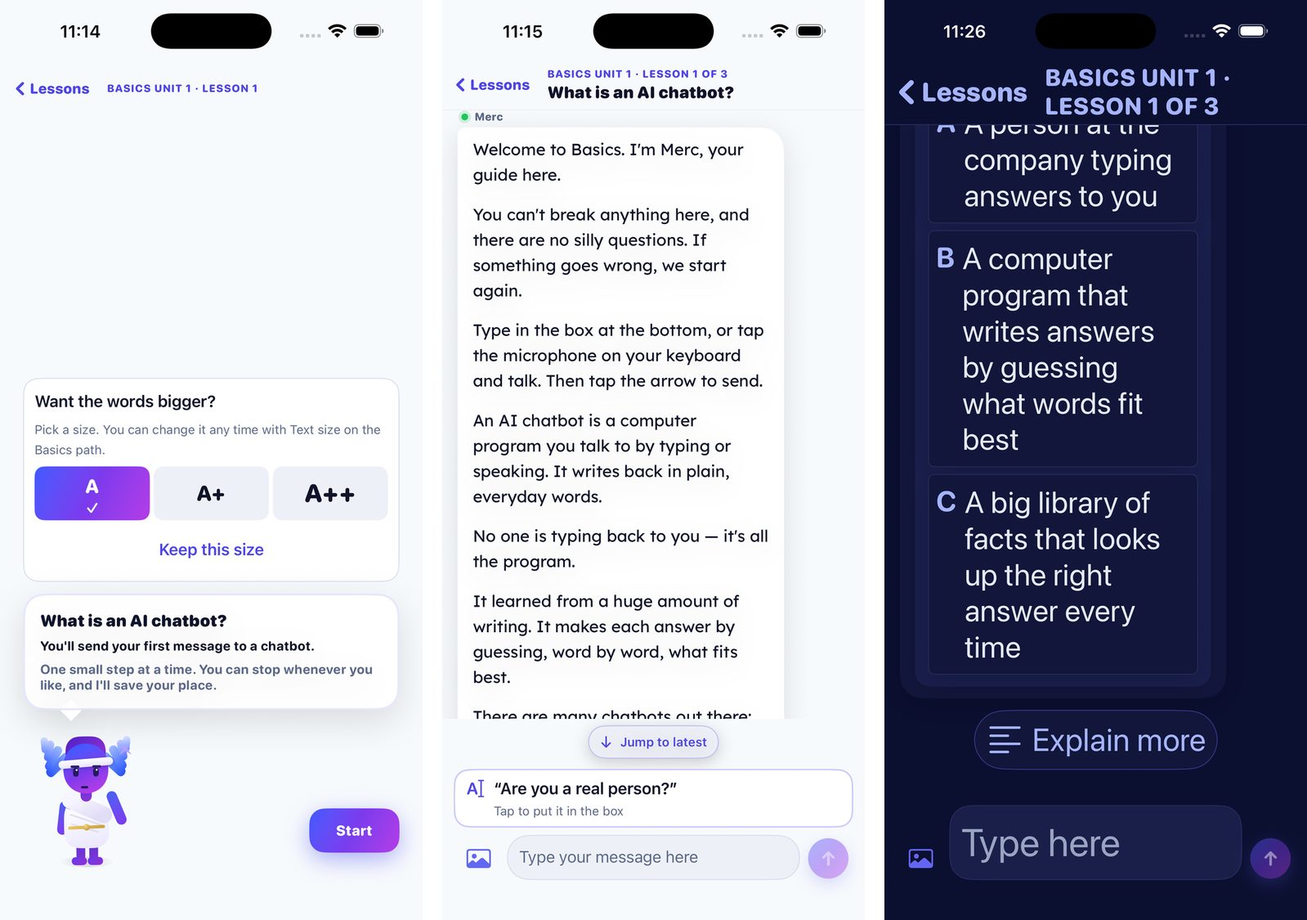
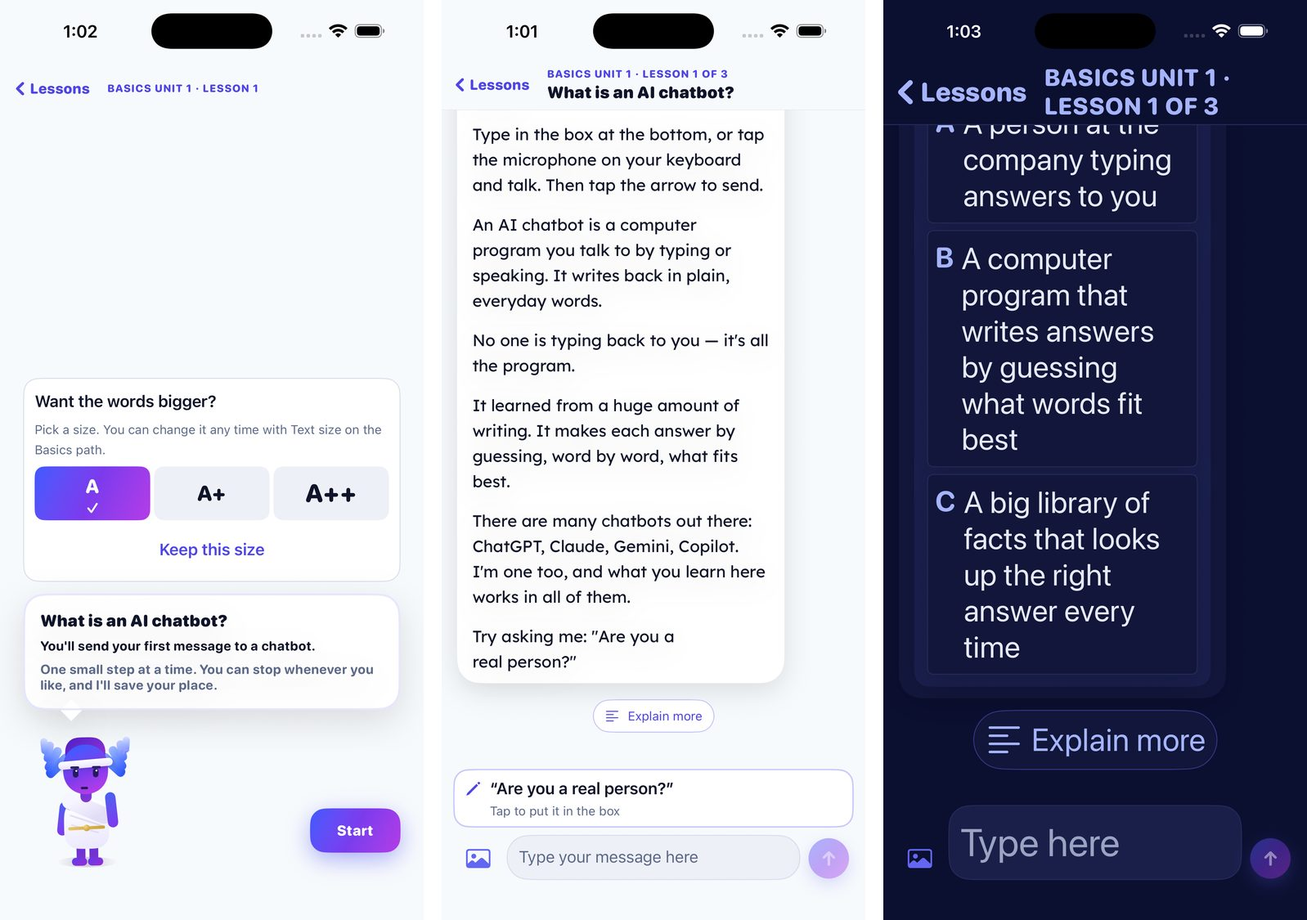
Docs: Basics review fixes, verification, retaken key shots, PR description

diff --git a/docs/basics/CLIENTS.md b/docs/basics/CLIENTS.md
@@ -4,7 +4,7 @@ Branch `feat/basics-clients`, on top of `feat/mac-night-studio` (PR #48: the iPh
 
 The founder asked for "a separate 'easy' curriculum that can just teach people the basics of how to use AI … (think of a grandma wanting to learn how to use ChatGPT)." The server half is `feat/basics-server` (`docs/basics/SERVER.md` there). This branch is the client half: the Basics course in the iPhone app and the Mac app, beside the existing course, which the apps now call **Deep dive** where the two sit side by side.
 
-**Ship order: the server first.** A server without `feat/basics-server` (production today) answers a `[BASICS: …]` opener as free chat, and its progress route refuses `b` ids. The apps cope with the second (see Progress), but a Basics lesson only teaches on a server that has the Basics guide. The server branch's A/B gate has not run yet. The Anthropic credit balance ran out three minutes into it; see SERVER.md for the commands.
+**Ship order: the server first.** A server without `feat/basics-server` (production today) answers a `[BASICS: …]` opener as free chat, and its progress route refuses `b` ids. The apps cope with the second (see Progress), but a Basics lesson only teaches on a server that has the Basics guide. On the server branch every gated Basics row passes a live 3-run gate in both flag states, and every non-Basics request is byte-identical to its base (SERVER.md, "Gate").
 
 ## Defaults chosen (the founder can change any of these)
 
@@ -21,12 +21,12 @@ The founder asked for "a separate 'easy' curriculum that can just teach people t
 
 | Where | What |
 |---|---|
-| Onboarding, "Your path" | Two pinned, full-width, equal buttons, "I'm new to AI: start with the Basics" and "Take the Deep dive"; above them a line on what each course is, the reminder switches (off unless turned on) and "Just chat instead". A button remembers the choice and opens that course's first lesson. The first build had the two courses as tappable cards in the scrolling part; at AX3 and AX5 the Deep-dive card was below the fold and only "Just chat instead" was pinned, which broke AUD-12 (`testFirstRunGateCompletesAtLargestTextSize` caught it), so the choices became the step's pinned CTA. |
+| Onboarding, "Your path" | Two pinned, full-width, equal buttons, "I'm new to AI: start with the Basics" and "Take the Deep dive"; above them a line on what each course is, one plain reminder switch, "Remind me to practice" (twice a week; off unless turned on; no streak switch here), and "Just chat instead". A button remembers the choice and opens that course's first lesson. The first build had the two courses as tappable cards in the scrolling part; at AX3 and AX5 the Deep-dive card was below the fold and only "Just chat instead" was pinned, which broke AUD-12 (`testFirstRunGateCompletesAtLargestTextSize` caught it), so the choices became the step's pinned CTA. |
 | Path (Curriculum tab) | A two-segment switch, "Basics \| Deep dive", across the top (44 pt, labelled, remembered). Basics' path has no unit checks, a plain top bar with only Home (no streak bar), a header that says lessons finished in words, and Text size. Its path-side Merc says calmer lines ("Take your time."). |
-| Home | The chosen course's next lesson: "Start the Basics", then "Continue Basics: What chatbots are good at". For Basics no streak greeting and no week ring; "You've finished 1 Basics lesson." instead. |
+| Home | The chosen course's next lesson: "Start the Basics", then "Continue Basics: What chatbots are good at". For Basics no streak greeting and no week ring; "You've finished 1 Basics lesson." instead. The second button is "All Basics lessons" (the path), not "Chat with Merc": the free chat is the Socratic tutor, which asks questions back. The Lessons tab is called "Lessons" (not "Curriculum") for a Basics learner. |
 | Text size | The first Basics screen offers "Want the words bigger?" with A / A+ / A++, each drawn at the size it gives. It is a floor: the learner's own larger system size always wins. After that, Text size on the Basics header opens the same choice. Basics lessons and the Basics path use it; the Deep dive is untouched. |
 | A Basics lesson | The existing lesson screen with: an intro that says the objective in the learner's words and "One small step at a time. You can stop whenever you like, and I'll save your place."; a labelled "‹ Lessons" back button at the top left; "Type your message here"; the reply's practice line (`Try asking me: "…"`) as a chip that fills the box without sending; Copy on Merc's replies (press and hold), before Report. |
-| After a Basics lesson | "Lesson complete", then **Try this today** (the curriculum's line, with Copy when it quotes a message, for example "What could go wrong?"), then "Next: \<lesson\>" and "That's enough for today", and "Your place is saved." No share card, no "Nailed it!". After a unit's last lesson it carries on to the next unit (there is no check). |
+| After a Basics lesson | "Lesson complete", then **Try this today** (the curriculum's line, with Copy when it quotes a message, for example "What could go wrong?"), then "Next: \<lesson\>" and "That's enough for today", and "Your place is saved." No share card, no "Nailed it!". After a unit's last lesson it carries on to the next unit (there is no check). When it doesn't all fit (the larger text sizes), the two choices and "Your place is saved." are pinned to the bottom of the sheet and only the headline and Try this today scroll; at accessibility sizes Merc stays off the sheet so he never covers text. |
 
 ### Mac
 
@@ -35,15 +35,15 @@ The founder asked for "a separate 'easy' curriculum that can just teach people t
 | Sidebar | Two folding sections, **Basics** and **Deep dive**, each listing its units with lessons done; the learner's own course first. Basics' units have no mastery seal. |
 | A Basics unit page | Night Studio's unit page, without the check: "Basics · Unit 01 · In progress", "1 of 3 lessons done", the thread ending at the last lesson, and the next Basics unit. |
 | The course follows what opens | Opening a Basics unit or lesson makes Basics the course Today and View ▸ Learning Path (⌘2) lead into; a Deep-dive one switches back. Today and the chats leave it alone. |
-| Today | For Basics: "Basics · Up next · Lesson 1.1", "All Basics lessons", no streak line and no week card (Think it through takes the row). |
-| A Basics lesson | The same lesson additions as the iPhone (plain intro, practice chip, "Type your message here"). The complete card shows Try this today, "That's enough for today" and "Start Lesson 1.2", with no week ring and no share. |
+| Today | For Basics: "Basics · Up next · Lesson 1.1", "All Basics lessons", no streak line, no week card and no Think it through (it opens the Socratic free chat). |
+| A Basics lesson | The same lesson additions as the iPhone (plain intro, practice chip, "Type your message here"). The check card's heading is "Pick one" (the Deep dive's is "Your turn first"). The complete card shows Try this today, "That's enough for today" and "Start Lesson 1.2", with no week ring and no share; its key ideas leave out any that point back into the chat ("…just like this one"). |
 
 ## The server contract, as the apps send it
 
 - **Opener.** Each Basics starter begins at index 0 with `[BASICS: Unit N, Lesson M]`, then the curriculum's starter text, then the completion contract the Deep dive appends. The alias in the curriculum file (`[CURRICULUM: Basics …]`) is never sent. `docs/basics/basics.json` is the curriculum file with its tags rewritten to the canonical form, and a test holds the Swift data (`BasicsCurriculum.swift`) to it word for word.
 - **Follow-up turns.** `[opener, …thread]`, with the last user turn re-tagged by the existing legacy-server bridge. Fixed here: the bridge checked only for `[CURRICULUM`, so on a Basics lesson's first request it would have tagged the opener twice, and that request's opener would have differed from every later one's (a history-cache miss). `ChatViewModel.carriesLessonTag` now knows both tags; Deep-dive bytes are unchanged.
 - **Ids.** Lessons `b1_l1` … `b5_l4`; units `basics_1` … `basics_5`. `CurriculumTrack.of(id:)` tells the two courses apart by shape.
-- **Progress.** One store, one sync, one list. A push sends `b` and `u` ids together under `MercuriusCurriculum.version` (1), never a separate number. A pull merges both; every count, frontier and "next" is per course (`totalCompleted(in:)`, `frontier(in:)`), and the weekly plan still counts only the Deep dive. If a server refuses the push with a 400 (what one from before Basics does for a `b` id), the sync retries once with the Deep dive's ids alone, so the Deep dive keeps syncing.
+- **Progress.** One store, one sync, one list. A push sends `b` and `u` ids together under `MercuriusCurriculum.version` (1), never a separate number. A pull merges both; every count, frontier and "next" is per course (`totalCompleted(in:)`, `frontier(in:)`), and so is the weekly plan (`WeeklyPlan.compute(progress:track:)`): the weekly nudges read the course the learner follows, so a Basics learner's lessons count toward the week's goal and its wording. If a server refuses the push with a 400 (what one from before Basics does for a `b` id), the sync retries once with the Deep dive's ids alone, so the Deep dive keeps syncing. The refusal is remembered for that session id until the next launch, or until a pull shows a `b` id: later pushes send the Deep dive's ids alone, and a snapshot that went up that way counts as synced, so an unchanged one is never sent again (no 400 on every launch).
 - **Capabilities.** Every chat request now declares the device beside `blocks_v1`: `platform_ios` or `platform_mac`. Only the Basics guide reads it (b1_l1's "tap the microphone on your keyboard" becomes "type … then click the arrow" on a Mac). Production's schema accepts any well-formed token, and nothing else on the server reads it.
 - **Completion.** Unchanged: `lessonComplete: true` (or the inline marker) completes the lesson.
 
@@ -68,9 +68,45 @@ The founder asked for "a separate 'easy' curriculum that can just teach people t
 - `-SeedCompleted b1_l1,b1_l2` (with `-UITests`, whose progress suite is emptied at launch and never synced) counts lessons as done.
 - `ios/scripts/mac-snapshots.sh` has `basics-today`, `basics-path`, `basics-intro`, `basics-lesson`, `basics-lesson-check` and `basics-lesson-complete`.
 
+## Review fixes (2026-10-22)
+
+A UX review (a 72-year-old beginner's live lessons on the server branch, plus all 80 iPhone and 28 Mac shots) and a code review found these on the client side. Each is fixed here, with a test where one can hold it.
+
+| Finding | Fix |
+|---|---|
+| Basics learners were steered into the Socratic free chat: Mac Today's "Think it through · Socratic" card, and Home's "Chat with Merc". | Mac Today on Basics shows no Think it through (`MacTodayView.showsCards`). Home's second button on Basics is "All Basics lessons" (the path). No Basics screen names a mode; a test holds the Basics words free of "Socratic" and "streak". |
+| At AX3 the end-of-lesson choices were below the fold, and Merc covered text. | When the Basics sheet doesn't fit, "Next", "That's enough for today" and "Your place is saved." are pinned to its bottom, never squeezed, and only the headline and Try this today scroll (`ViewThatFits`). At accessibility sizes Merc stays off the Basics sheet. A sheet shorter than its cap now sits on the bottom edge (it used to float mid-screen once it stopped filling the cap). The Deep dive's sheet is unchanged. |
+| "Your path" offered "Daily streak reminder" and "Weekly nudges" next to the Basics choice. | One plain switch, "Remind me to practice" ("Twice a week: Sunday at 6 PM and Wednesday at 7 PM."), and no streak switch (`RemindersSection(plain:)`). The daily streak reminder stays in the Progress hub. |
+| The weekly plan counted only Deep-dive lessons, so a Basics learner always read as 0 this week. | `WeeklyPlan.compute(progress:track:)` counts the chosen course; Home and the reminder planner pass it. |
+| The pre-Basics server fallback sent two PUTs (one refused) on every pull and push. | The refusal is remembered per session id until the next launch or a pull that shows a `b` id; Deep-dive-only pushes then, and an unchanged snapshot is not sent again. |
+| `readingSizeFloor` switched between two view branches, resetting state on a size pick. | One `dynamicTypeSize(range)` modifier for every size; a test fails if the type ever becomes `_ConditionalContent`. |
+| The practice chip's `text.cursor` icon read as "AI" before the quote. | A pencil. |
+| The Mac check card said "YOUR TURN FIRST". | "Pick one" on Basics (`NightReplyCopy.checkOpenBasics`). The "Tap" in Merc's line before the check is the server's; the server branch now says "Click" for the Mac and the web. |
+| The completion card's key ideas included "…just like this one". | Basics leaves out a key idea that points back into the chat (`NightKeyIdeas.pointsBack`). The server branch also tells Merc that [KEY] must stand on its own, and removes "just". |
+| The path's title and tab said "Curriculum". | "Lessons" for a Basics learner; the Deep dive keeps "Curriculum". |
+| The snapshot tests never drew the tracked path the app shows. | `testCurriculumTrackedDeepDive` and `testCurriculumTrackedBasics` added, with **no reference images**: recording is the founder's job. Until recorded, these two fail with "no reference" when the snapshot class runs (CI skips it). |
+
+Not changed: the tab bar at AX3 (iOS's own glass bar; see Not done).
+
+### Verification of the review fixes
+
+All on this branch's final code, 2026-10-22.
+
+| Check | Result |
+|---|---|
+| `swift test --parallel` (`ios/Packages`, ArchitectureTests included) | 1,242 tests in 185 suites passed: the first build's 1,233 plus 9 (weekly plan per course, the remembered refusal (2), the reading-size identity and floor (2), the plain reminder words, Mac Today on Basics, standalone key ideas, the Lessons title). |
+| CI lint, `ios/scripts/ci-compat-lint.py` | 0 findings. |
+| iOS build for testing, Lab B, derived data `/private/tmp/merc-basics-ios-dd`, after `xcodegen generate` | Succeeded (the new snapshot tests compile). |
+| iOS tests, CI's flags (`-skip-testing` ViewSnapshotTests, PerformanceTests, AppStoreScreenshots; retries on; recording forced off) | MercuriusTests 3 of 3 and MercuriusUITests 26 of 26 passed, 29 test cases with no failure and no retry, including `testFirstRunCanStartTheBasics` and the AUD-12 `testFirstRunGateCompletesAtLargestTextSize`. |
+| Mac Debug build, `/private/tmp/merc-basics-mac-dd` | Succeeded. |
+| Mac shots, `mac-copy-snapshots.sh` (copy `macns31`, ad hoc, never activated), light and dark | basics-today, basics-lesson, basics-lesson-check, basics-lesson-complete, gate-path: all ok. The script's only complaint was "a Mercurius running before is gone": those were the Lab B simulator's app processes this session relaunched for the iPhone shots. The founder's Mercurius (PID 83916) ran before and after. |
+| iPhone shots, Lab B, by DEBUG launch arguments | Your path (Large light, AX3 dark), Home on Basics (Large light and dark), the Basics path, the intro, the practice chip, the check (AX3 dark), and the completion at Large light, AX3 light and AX3 dark. Kept in `.claude/worktrees/basics-shared/shots/review-fixes-2026-10-22/`. |
+
+The key shots 01–04 and 06 were retaken on this code; 07 is new.
+
 ## Verification
 
-All on the final code of this branch, 2026-10-21.
+All on the code of this branch as first built, 2026-10-21.
 
 | Check | Result |
 |---|---|
@@ -101,12 +137,13 @@ At AX3 the text-size offer is absent. That is by design: the system size is alre
 
 | File | What |
 |---|---|
-| `01-iphone-track-choice.jpg` | "Your path": Large light, AX3 dark |
-| `02-iphone-basics-path-home.jpg` | The Basics path (Large light) and Home (Large dark) |
-| `03-iphone-basics-lesson.jpg` | The intro with "Want the words bigger?", the first reply with the practice chip, the check at AX3 dark |
-| `04-iphone-basics-complete.jpg` | The completion (Large light) and Try this today with Copy (AX3 dark) |
+| `01-iphone-track-choice.jpg` | "Your path" with the one plain reminder switch: Large light, AX3 dark (2026-10-22) |
+| `02-iphone-basics-path-home.jpg` | The Basics path, titled "Lessons" (Large light), and Home with "All Basics lessons" (Large dark) (2026-10-22) |
+| `03-iphone-basics-lesson.jpg` | The intro with "Want the words bigger?", the first reply with the pencil practice chip, the check at AX3 dark (2026-10-22) |
+| `04-iphone-basics-complete.jpg` | The completion: Large light (sized to fit, on the bottom edge) and AX3 dark (choices pinned, Merc off the sheet) (2026-10-22) |
 | `05-mac-basics-sidebar-path.jpg` | The Mac sidebar's Basics section and a Basics unit page |
-| `06-mac-basics-lesson.jpg` | A Basics lesson on the Mac, with the practice chip |
+| `06-mac-basics-lesson.jpg` | A Basics lesson on the Mac, with the pencil practice chip (2026-10-22) |
+| `07-mac-basics-today-check.jpg` | Mac Today on Basics with no Think it through, and the check card's "Pick one" (2026-10-22) |
 
 ## Not done, and why
 
@@ -115,12 +152,13 @@ At AX3 the text-size offer is absent. That is by design: the system size is alre
 - **"Say that more simply" and "I'm stuck" buttons** (BEGINNER_GUIDE §2.3) need a new server nudge; "Explain more" means "go deeper".
 - **The printable completion and "Who to call" cards** (curriculum §6) are the certificate work's.
 - **The web widgets** don't offer Basics.
-- **Reminders** keep their existing copy (opt-in, as before). A Basics learner who turns them on gets a lesson link into Basics, but the daily reminder is still the streak one.
+- **Reminders** keep their existing notification text (opt-in, as before). A Basics learner who turns on "Remind me to practice" gets the weekly nudges with a lesson link into Basics, and the nudge skips a week whose goal is met by Basics lessons. The daily streak reminder is off the first-run screen; it is still in the Progress hub for Deep-dive learners.
 - **The App Store review prompt** still counts Basics completions toward its 3rd and 10th.
 - **The recorded replay is the phone's.** The chip's hint says "Click" on a Mac, but the replayed session was recorded with `platform_ios`, so the Mac shots show "tap the microphone" in Merc's first reply. Live, the server words it for a Mac.
 - **Return on the Mac's "Your path".** Return used to start Lesson 1. With two equal choices neither is the default, so Return now does nothing there and the learner clicks one. Founder question 1 below would settle it.
-- **The model still says "just" sometimes.** The recorded reply in the shots has "just like this one" and "just by asking". The apps' own Basics words are held free of it by a test, but the server's guide doesn't fully stop the model (SERVER.md: about 1 reply in 4).
-- **At AX3 and above the completion sheet scrolls.** Like the Deep dive's, it is capped at 86% of the screen; "Next" can sit below "Try this today" until the learner scrolls.
+- **The recorded replay predates the server's clean-up.** The recorded reply in the shots has "just like this one" and "just by asking". The server now removes "just" and "simply" from Basics replies (`lib/basicsVoice.js` on `feat/basics-server`), so a live lesson won't show them; the replay is the old recording.
+- **The tab bar at AX3.** It is iOS's own tab bar: its labels don't grow with the text (iOS shows them large on a long press), and the path's text shows through its glass while scrolling. The path rests above it. Making it solid is a system-wide design change, not done here.
+- **The Deep dive's completion sheet at AX3** still scrolls with its buttons inside it, as before (the pinned choices are Basics only, so the Deep dive's screens are unchanged).
 
 ## Founder questions this branch adds
 

diff --git a/docs/basics/PR.md b/docs/basics/PR.md
@@ -1,0 +1,109 @@
+# Basics: a separate beginner course in the iPhone and Mac apps (stacked on #48)
+
+**Base: `feat/mac-night-studio` (#48).** Head: `feat/basics-clients`. **Merge only after the server PR (`feat/basics-server`, stacked on #44) is deployed.** A server without it answers a `[BASICS: …]` opener as free chat, so a Basics lesson only teaches on a server that has the Basics guide.
+
+## What this is
+
+The founder asked for "a separate 'easy' curriculum that can just teach people the basics of how to use AI … (think of a grandma wanting to learn how to use ChatGPT)." This PR is the client half: the **Basics** course in the iPhone app and the Mac app, beside the existing course, which the apps now call **Deep dive** where the two sit side by side. Merc teaches each lesson in the existing lesson chat, and the learner practises on Merc right there.
+
+### The curriculum: 5 units, 18 lessons
+
+| Unit | Lessons |
+|---|---|
+| 1. Meet AI chatbots | What is an AI chatbot? · What chatbots are good at · What chatbots get wrong |
+| 2. Your first conversations, safely | Asking a real question · Following up · What never to share · Fake calls that sound like family |
+| 3. Getting good answers | Be specific · Tell it your situation · Ask for the downsides |
+| 4. Everyday tasks | Write an email or letter · Understand a confusing letter · Meals, plans and lists · Learn something new, with a photo |
+| 5. Using it wisely on your own | Checking answers that matter · Health, money and legal: ask a person · Other scams that use AI · On your own |
+
+The data is `CurriculumFeature/Sources/BasicsCurriculum.swift`, held word for word to `docs/basics/basics.json` by a test.
+
+## Defaults chosen (the founder can change any of these)
+
+- **A separate track called "Basics"**; the existing course is "Deep dive" wherever the two appear together. "Easy" never appears on screen. The app stays 13+; Basics is written for any adult beginner and works for teens too.
+- **Choosing by experience, never by age.** The last onboarding step offers "I'm new to AI: start with the Basics" and "Take the Deep dive", as two equal pinned buttons. Installs from before Basics, and anyone who never chooses, stay on the Deep dive, so nothing changes for current students.
+- **Tutor-led, with practice right there.** A Basics lesson is the existing lesson screen; Merc's practice line becomes a chip that fills the box (never sends).
+- **Tool-neutral, plain language, safety first.** That is the server's guide; the apps add no lesson text beyond the curriculum's titles, objectives and "Try this today" lines.
+- **No streak pressure in Basics.** No streak, flame, XP, level, weekly goal or badge toast on Basics screens, and no Lock Screen card for a Basics lesson. Progress is check marks and "You've finished 3 lessons."
+- **Both courses stay open**, each with its own progress; the choice only decides where Home, Today and the path open.
+
+## What the learner sees
+
+![Your path: one plain reminder switch, two equal choices](https://github.com/christensenshyam-hub/mercurius-chatbot/blob/feat/basics-clients/docs/basics/key-shots/01-iphone-track-choice.jpg?raw=true)
+
+"Your path" (Large light, AX3 dark): what each course is, one plain switch ("Remind me to practice", twice a week; no streak switch), and the two choices pinned at every text size.
+
+![The Basics path titled Lessons, and Home on Basics](https://github.com/christensenshyam-hub/mercurius-chatbot/blob/feat/basics-clients/docs/basics/key-shots/02-iphone-basics-path-home.jpg?raw=true)
+
+The path with the "Basics | Deep dive" switch, titled "Lessons" (tab too), and Home leading into the next Basics lesson. Home's second button on Basics is "All Basics lessons", not "Chat with Merc".
+
+![A Basics lesson: intro, practice chip, check](https://github.com/christensenshyam-hub/mercurius-chatbot/blob/feat/basics-clients/docs/basics/key-shots/03-iphone-basics-lesson.jpg?raw=true)
+
+The intro offers bigger text (A / A+ / A++, a floor under the system size); Merc's practice line is a chip with a pencil; the check at AX3.
+
+![Lesson complete at Large and AX3](https://github.com/christensenshyam-hub/mercurius-chatbot/blob/feat/basics-clients/docs/basics/key-shots/04-iphone-basics-complete.jpg?raw=true)
+
+"Lesson complete", Try this today, "Next: …" and "That's enough for today". At AX3 the two choices are pinned to the bottom of the sheet and Merc stays off it.
+
+![Mac: the sidebar's Basics section and a unit page](https://github.com/christensenshyam-hub/mercurius-chatbot/blob/feat/basics-clients/docs/basics/key-shots/05-mac-basics-sidebar-path.jpg?raw=true)
+
+![Mac: a Basics lesson with the practice chip](https://github.com/christensenshyam-hub/mercurius-chatbot/blob/feat/basics-clients/docs/basics/key-shots/06-mac-basics-lesson.jpg?raw=true)
+
+![Mac: Today on Basics, and the check card's "Pick one"](https://github.com/christensenshyam-hub/mercurius-chatbot/blob/feat/basics-clients/docs/basics/key-shots/07-mac-basics-today-check.jpg?raw=true)
+
+The Mac: Basics and Deep dive as two sidebar sections; Today on Basics has no week card and no Think it through; the check card says "Pick one". (The Mac shots replay a recorded iPhone session, so Merc's first reply says "tap the microphone"; live, the server words it for a Mac.)
+
+## The server contract, as the apps send it
+
+- **Opener:** `[BASICS: Unit N, Lesson M]` at index 0, the curriculum's starter text, then the Deep dive's completion contract. The `[CURRICULUM: Basics …]` alias is never sent.
+- **Follow-up turns:** `[opener, …thread]`, the last user turn re-tagged by the existing bridge (`ChatViewModel.carriesLessonTag` now knows both tags, so a Basics opener is never tagged twice).
+- **Ids:** `b1_l1` … `b5_l4`, `basics_1` … `basics_5`; one store, one sync, under `MercuriusCurriculum.version`. Every count, frontier and the weekly plan are per course.
+- **Capabilities:** `platform_ios` or `platform_mac` beside `blocks_v1` on every chat request (only the Basics guide reads it).
+- **A server from before Basics** refuses `b` ids with a 400; the sync then sends the Deep dive's ids alone and remembers that until the next launch (or a pull that shows a `b` id).
+
+## Review fixes in this PR (2026-10-22)
+
+| Finding | Fix |
+|---|---|
+| Medium. Basics learners were steered into the Socratic free chat (Mac Today's "Think it through · Socratic", Home's "Chat with Merc"). | No Think it through on Basics' Today; Home's second button is "All Basics lessons"; no mode names on Basics screens (tested). |
+| Medium. At AX3 the completion's choices were below the fold and Merc covered text. | Choices pinned and never squeezed when the sheet overflows; Merc off the Basics sheet at accessibility sizes; a short sheet sits on the bottom edge. Deep dive unchanged. |
+| Medium. "Your path" offered a "Daily streak reminder" next to the Basics choice. | One plain switch, "Remind me to practice"; the streak reminder stays in the Progress hub. |
+| Low. The weekly plan counted only the Deep dive. | `WeeklyPlan.compute(progress:track:)`, used by Home and the reminder planner. |
+| Low. The pre-Basics sync fallback sent two PUTs on every pull. | The refusal is remembered; an unchanged snapshot isn't re-sent. |
+| Low. `readingSizeFloor` had two branches (state reset on a size pick). | One modifier; a test guards the identity. |
+| Low. The chip's `text.cursor` icon read as "AI". | A pencil. |
+| Low. Mac check card "YOUR TURN FIRST". | "Pick one" on Basics. |
+| Low. A completion key idea "…just like this one". | Basics drops key ideas that point back into the chat. |
+| Low. "Curriculum" on a Basics learner's tab and title. | "Lessons". |
+| Low. Snapshot tests didn't draw the tracked path the app shows. | Two new tests (Deep dive, Basics) with **no reference images**: the founder records them. |
+
+Not changed: iOS's own glass tab bar at AX3 (its labels don't grow; content shows through while scrolling).
+
+## Verification
+
+Run on this branch's final code, 2026-10-22.
+
+| Check | Result |
+|---|---|
+| `swift test --parallel` (`ios/Packages`, ArchitectureTests included) | 1,242 tests in 185 suites passed (the base's 1,187, the first build's 46, and 9 for the review fixes) |
+| CI lint, `ios/scripts/ci-compat-lint.py` (Xcode 16.2 / Swift 6.0.3 traps) | 0 findings |
+| iOS build for testing after `xcodegen generate` (iPhone 16 Pro Max sim, iOS 26.4) | succeeded |
+| iOS tests with CI's flags (`-skip-testing` ViewSnapshotTests, PerformanceTests, AppStoreScreenshots; retries on; snapshot recording forced off) | MercuriusTests 3/3, MercuriusUITests 26/26, no failure and no retry, including `testFirstRunCanStartTheBasics` and the AUD-12 largest-text-size gate test |
+| Mac Debug build | succeeded |
+| Snapshot comparisons (first build, `ios-unchanged-check.sh`, recording off) | the same 23 results as the baseline: no comparison changed. The two new tracked-path tests have no reference yet (see below). |
+| Screenshots | iPhone (Large and AX3, light and dark) and Mac (light and dark), all looked over; the key shots above were retaken on this code |
+
+Details: `docs/basics/CLIENTS.md`.
+
+## For the founder
+
+- **Record two snapshot references:** `testCurriculumTrackedDeepDive` and `testCurriculumTrackedBasics` in `ViewSnapshotTests` (until then they fail with "no reference" when that class runs; CI skips it).
+- **Questions:**
+  1. Basics and the Deep dive are equal choices on "Your path" (Basics first). Should one be the default?
+  2. On the Mac, the course follows what the learner opens. Would an explicit switch on Today be clearer?
+  3. The Deep dive's sidebar section used to be "Learning path"; it is now "Deep dive" for everyone. OK?
+  4. The daily streak reminder is off the first-run screen for everyone (one plain switch there now). Keep it that way for Deep-dive learners too, or bring it back once a course is chosen?
+  5. A Basics-style free chat (or "Try it with Merc") would let "Try this today" happen inside the app; today Basics learners are kept out of the Socratic free chat. Build one?
+  6. Mac text size (⌘+ / ⌘−, View ▸ Bigger Text) for Basics: its own piece of work. Worth it?
+
+🤖 Generated with [Claude Code](https://claude.com/claude-code)
